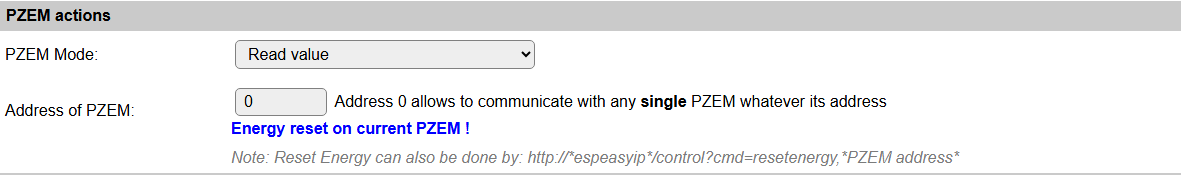
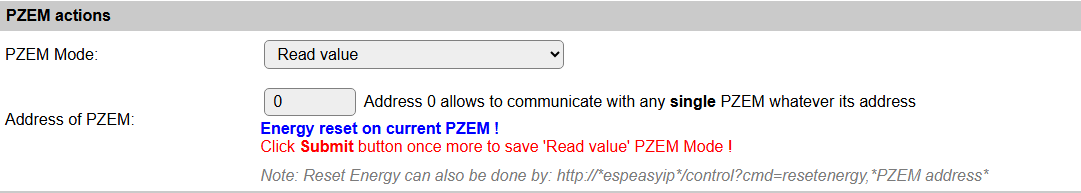
[P102] Update documentation

diff --git a/docs/source/Plugin/P102.rst b/docs/source/Plugin/P102.rst
@@ -250,6 +250,13 @@ The command will be executed immediately, and afterward the status will shown:
 
 The blue message showing that the command was sent. The **PZEM Mode** is already reset to ``Read value``.
 
+To store this change in settings, the :cyan:`Submit` button should be used once more (you can of course change more settings if desired, that's why no automatic save is done.)
+
+Send the ``resetenergy,<modbus_address>`` command
+^^^^^^^^^^^^^^^^^^^^^^^^^^^^^^^^^^^^^^^^^^^^^^^^^
+
+For an easy alternative to reset the Energy counter, you can use the ``resetenergy,<modbus_address>`` command, f.e. from the ``Command`` field on the Tools page, to reset the counter for the specific modbus address (range 1..247, or 0 if only 1 device is on the bus).
+
 Installing multiple PZEM units on a single ESP
 ----------------------------------------------
 
